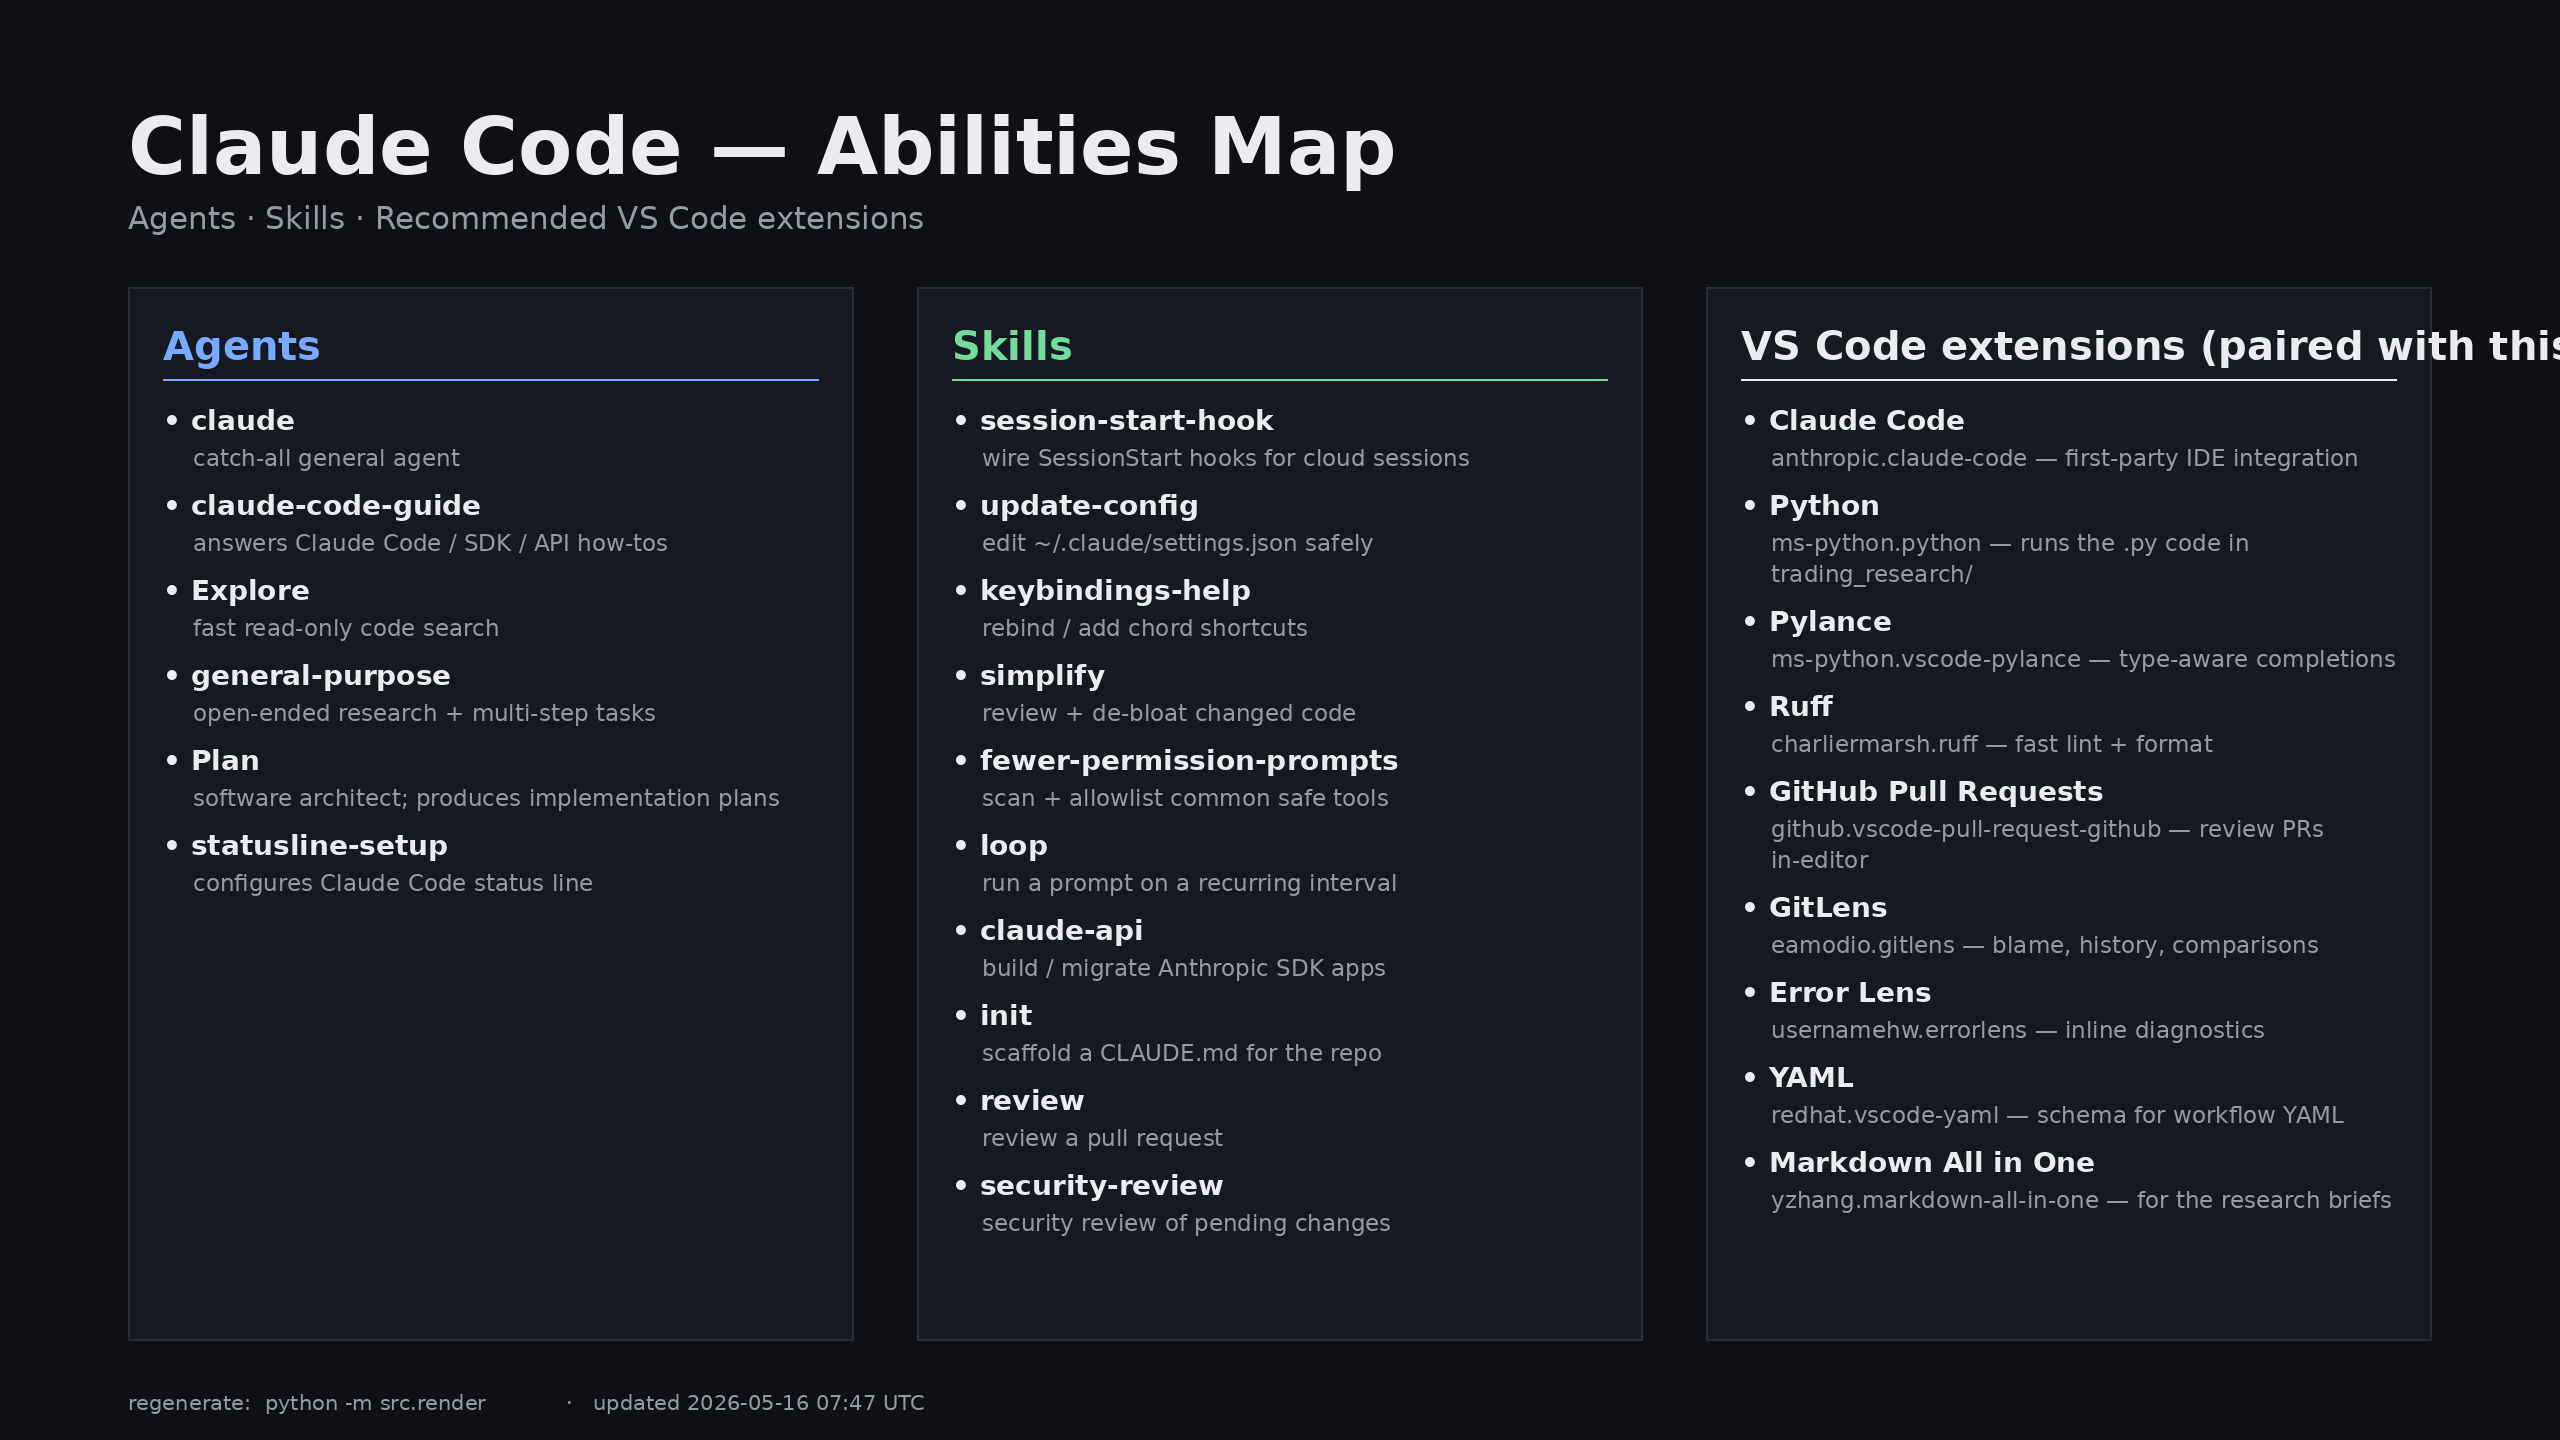
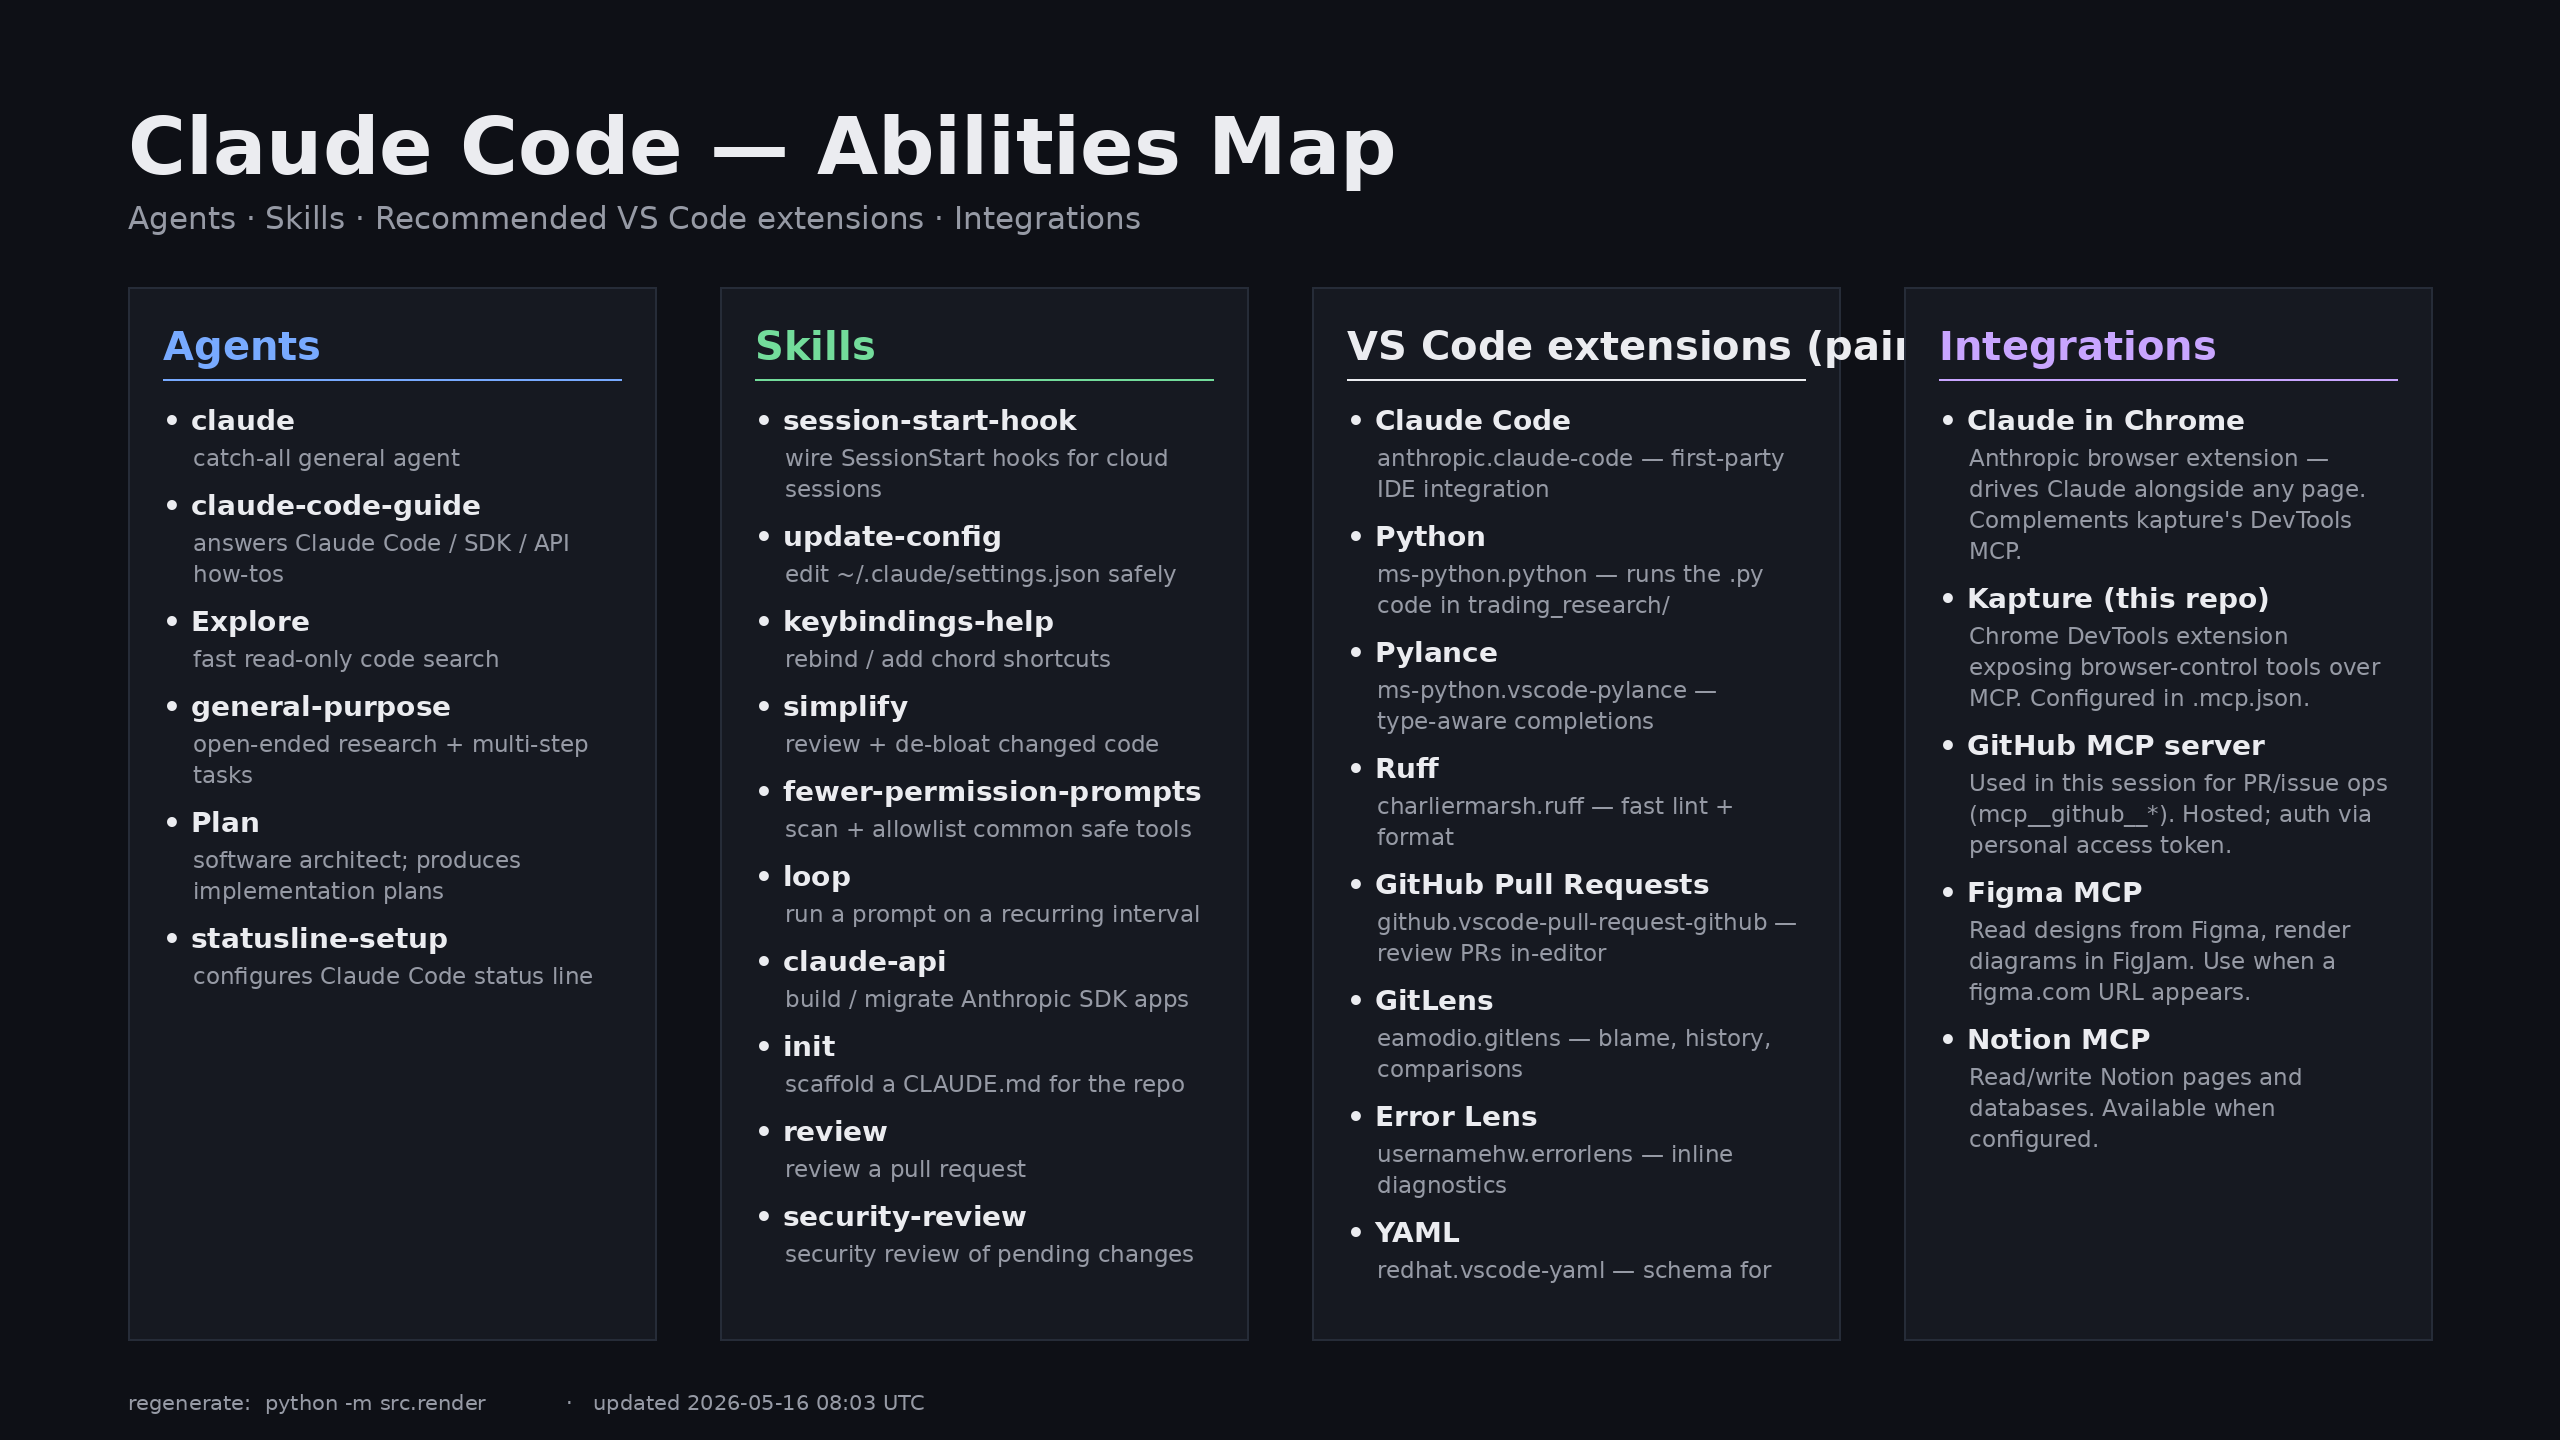
abilities map: add Integrations column (Claude in Chrome, MCP servers)
Adds a fourth column to claude_abilities/config/abilities.json listing
the runtime integrations available alongside this repo:

- Claude in Chrome (Anthropic browser extension)
- Kapture — this repo's Chrome DevTools MCP extension (configured in
  .mcp.json)
- GitHub MCP server (used in this session for PR/issue ops)
- Figma MCP, Notion MCP

Heading shortened to "Integrations" so the four-column layout fits at
2560x1440. Re-rendered the PNG; both 4K and default sizes render
cleanly without text overflow.

Note: this is documentation/visualization only. Claude in Chrome is
installed by the user from the Chrome Web Store; GitHub MCP is wired
at the session/cloud level by the harness, not by .mcp.json.

diff --git a/claude_abilities/README.md b/claude_abilities/README.md
@@ -5,6 +5,8 @@ A standalone wallpaper renderer that visualizes, at a glance:
 - **Agents** available to Claude Code in this repo
 - **Skills** loaded for the current session
 - **VS Code extensions** that pair well with these projects
+- **Integrations** — Claude in Chrome, kapture (this repo's Chrome
+  DevTools extension), GitHub MCP, Figma MCP, Notion MCP
 
 Output is a PNG you can set as a desktop wallpaper. The data is read
 from a JSON manifest (`config/abilities.json`) so you can edit what's